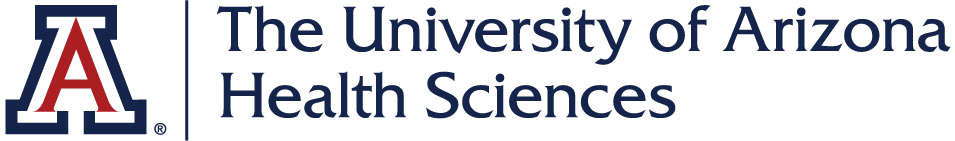
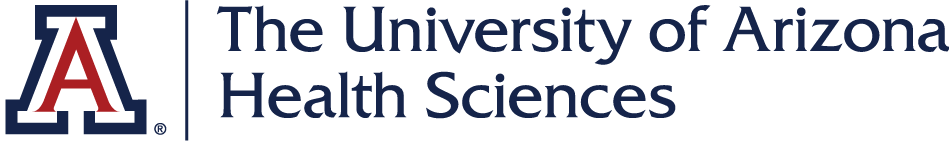
update cogsci award

diff --git a/index.html b/index.html
@@ -158,6 +158,17 @@
         <div class="w3-cell-row">
             <div class="w3-cell">
                 <div class="card">
+                    <img src="assets/ua_cogsci.png" alt="University of Arizona Cognitive Science Logo" class="w3-image; w3-container" style="width: 300px; margin-bottom:10px; padding: 1px;">
+                    <div class="container">
+                    <h4><b>Outstanding Research Award</b></h4>
+                    <p>Dec 2023</p>
+                    <p><b> Awarding Body:</b> University of Arizona</p>
+                    </div>
+                </div>
+            </div>
+
+            <div class="w3-cell">
+                <div class="card">
                     <img src="assets/SfN.jpeg" alt="SfN Icon" class="w3-image; w3-container" style="height:80px; margin-bottom:10px; padding: 1px;">
                     <div class="container">
                     <h4><b>Trainee Professional Development Award</b></h4>
@@ -169,7 +180,7 @@
 
             <div class="w3-cell">
                 <div class="card">
-                    <img src="assets/ua_health.png" alt="University of Arizona Health Sciences Logo" class="w3-image; w3-container" style="height:80px; margin-bottom:10px; padding: 1px;">
+                    <img src="assets/ua_health.png" alt="University of Arizona Health Sciences Logo" class="w3-image; w3-container" style="width: 300px; margin-bottom:10px; padding: 1px;">
                     <div class="container">
                     <h4><b>SensorLab Seed Grant</b></h4>
                     <p>Jul 2023 - Jun 2024</p>
@@ -178,9 +189,12 @@
                 </div>
             </div>
             
+        </div>
+
+        <div class="w3-cell-row">
             <div class="w3-cell">
                 <div class="card">
-                    <img src="assets/ua-psychology.png" alt="University of Arizona Psychology Logo" class="w3-image; w3-container" style="height:80px; margin-bottom:10px; padding: 1px;">
+                    <img src="assets/ua-psychology.png" alt="University of Arizona Psychology Logo" class="w3-image; w3-container" style="width: 300px; margin-bottom:10px; padding: 1px;">
                     <div class="container">
                     <h4><b>Best Presentation Award, Years 1-2</b></h4>
                     <p>Dec 2022</p>
@@ -188,10 +202,7 @@
                     </div>
                 </div>
             </div>
-   
-        </div>
 
-        <div class="w3-cell-row">
             <div class="w3-cell">
                 <div class="card">
                     <img src="assets/uofa.png" alt="University of Arizona Logo" class="w3-image; w3-container" style="height:80px; margin-bottom:10px; padding: 1px;">
